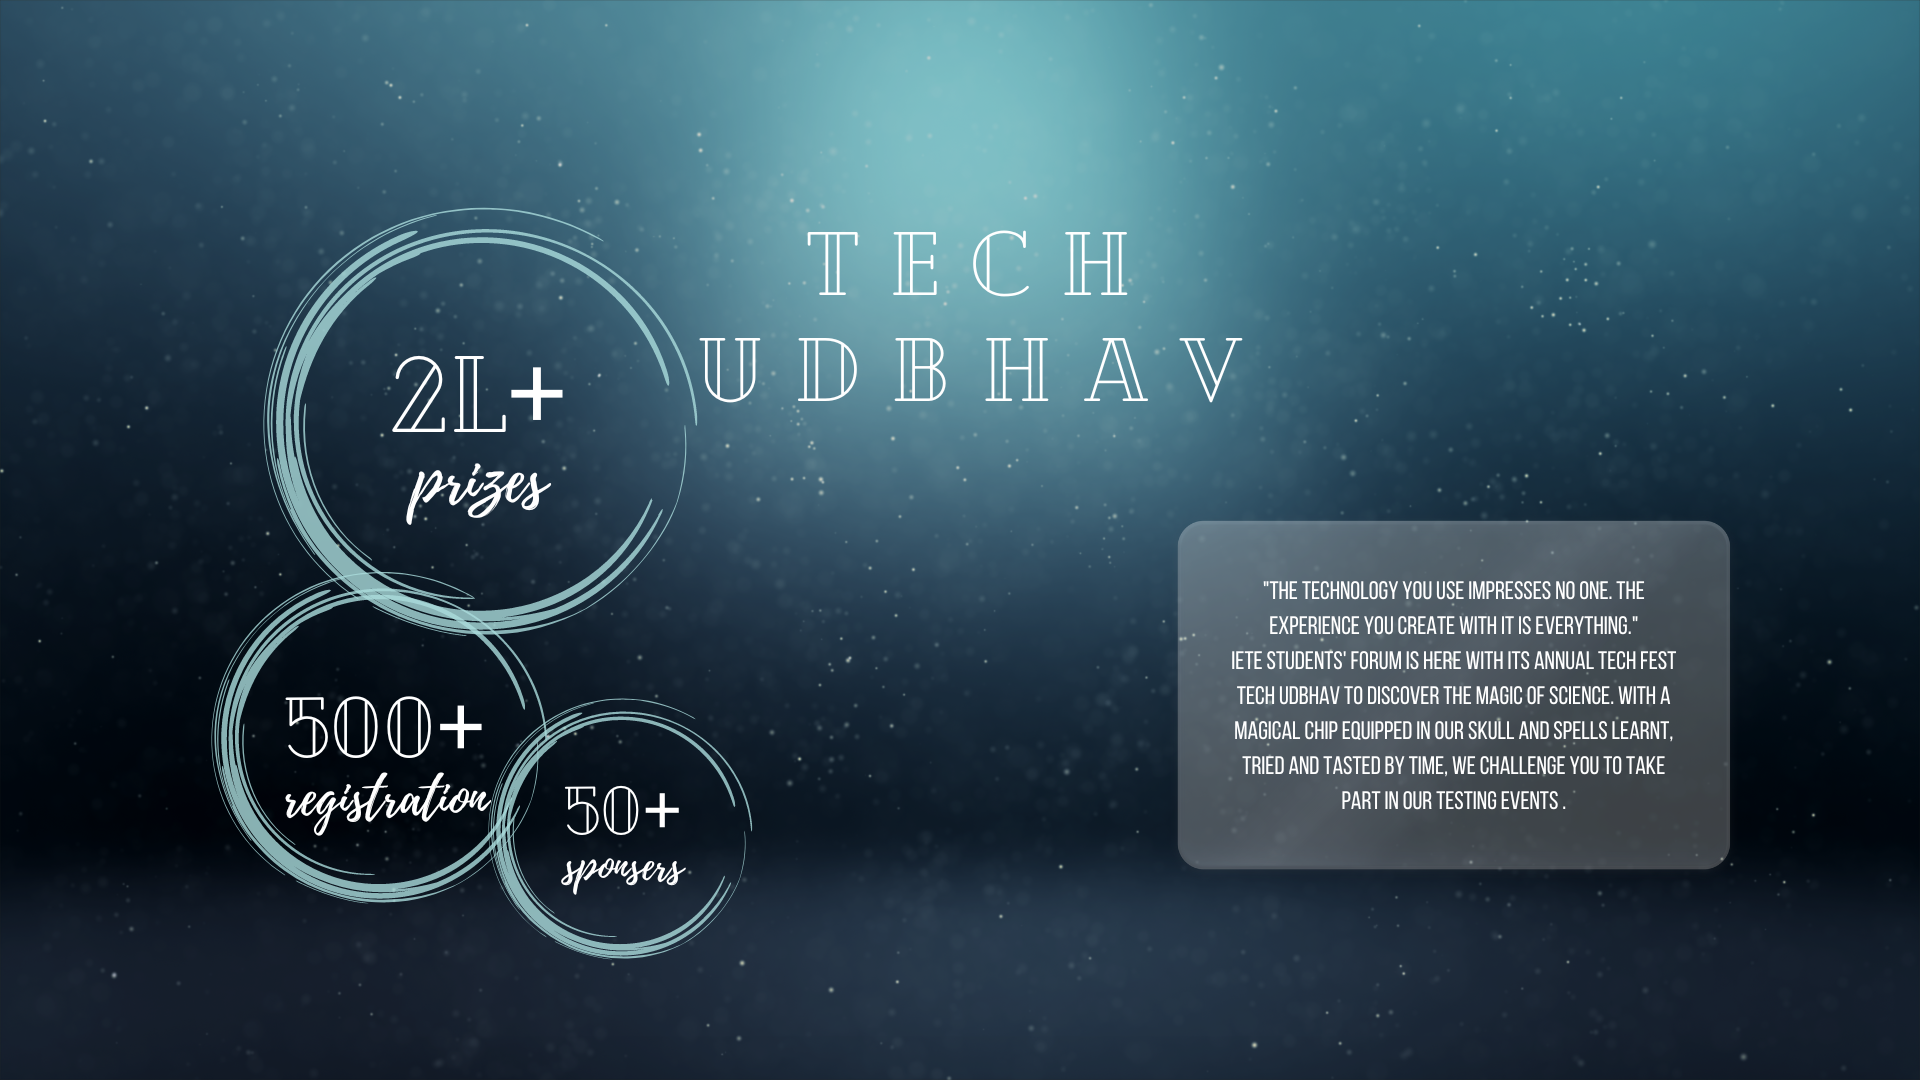
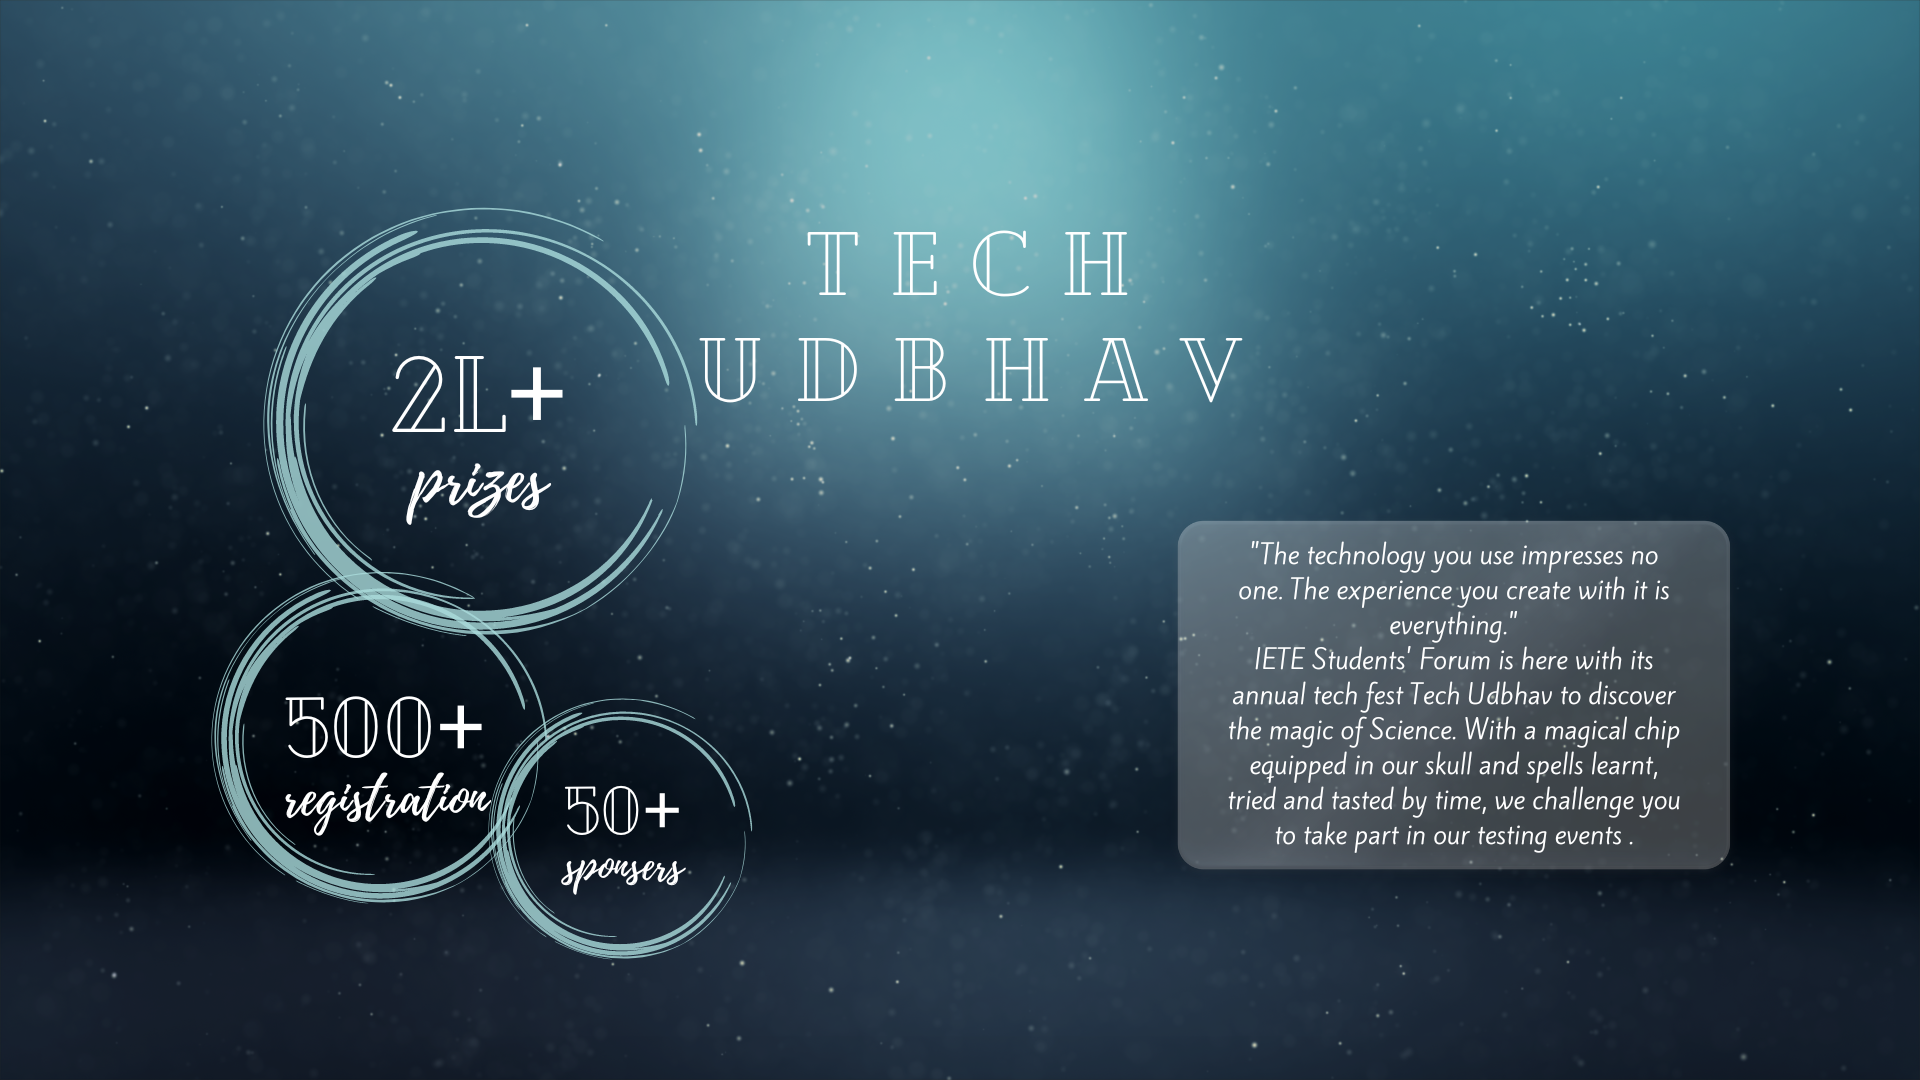
minor changes done

Changed region(s): [[0.625, 0.4889, 0.875, 0.7944]]

diff --git a/index.html b/index.html
@@ -16,7 +16,10 @@
 
     <nav>
         <div class="navLeft"> <img src="./img//tu.png" alt=""> Tech Udbhav</div>
-        <div class="navRight"><a href="https://ietebits.com/" target="_blank">Main Site</a></div>
+        <div class="navRight">
+            <a href="https://ietebits.com/" target="_blank"><img src="./img/finaliete.png"> Main Site</a>
+            <a href="https://ietebits.com/contact.html" target="_blank">Contact Us</a>
+        </div>
         <span></span>
     </nav>
 
@@ -61,7 +64,7 @@
                             We welcome you to the Hogwart of India, BIT Sindri and be a part of Tech Udbhav.
                         </p>
                         <p>
-                            to discover the magic of science, with a magical chip equipped in our skull and spells learnt, tried and tasted by time.
+                            IETE Students' Forum is here with its annual tech fest Tech Udbhav to discover the magic of science, with a magical chip equipped in our skull and spells learnt, tried and tasted by time.
 
                         </p>
                     </div>
@@ -74,7 +77,7 @@
 
         <section>
             <div class="about">
-                <img src="./img/aboutBg.png" alt="">
+                <img src="./img/aboutbg.png" alt="">
             </div>
         </section>
     </div>
@@ -89,7 +92,8 @@
                 </div>
                 <div class="eventButtonsToBeClicked">
                     <div class="primaryBtn"> <a href="http://bit.ly/Technogram" target="_blank">REGISTER</a> </div>
-                    <div class="secondaryBtn">RULE BOOK</div>
+                    <div class="secondaryBtn"> <a href="http://bit.ly/Technogram-rulebook" target="_blank">RULE BOOK</a></div>
+                    <div class="secondaryBtn"> <a href="https://forms.gle/cVPorV8HTEq4d4oa8" target="_blank">SUBMIT LINK</a> </div>
                 </div>
             </div>
             <div class="eventMinorImage commonImage"><img src="/img/tg1.jpg" alt="" srcset=""></div>
@@ -107,7 +111,7 @@
                 </div>
                 <div class="eventButtonsToBeClicked">
                     <div class="primaryBtn"><a href="http://bit.ly/Robo_soccer" target="_blank">REGISTER</a> </div>
-                    <div class="secondaryBtn">RULE BOOK</div>
+                    <div class="secondaryBtn"><a href="http://bit.ly/Robosoccer__rulebook" target="_blank">RULE BOOK</a></div>
                 </div>
             </div>
             <div class="eventMinorImage commonImage"><img src="img/rs1.jpg" alt=""></div>
@@ -126,6 +130,7 @@
                 <div class="eventButtonsToBeClicked">
                     <div class="primaryBtn"> <a href="http://bit.ly/u-xplore" target="_blank">REGISTER</a> </div>
                     <div class="secondaryBtn">RULE BOOK</div>
+                    <div class="secondaryBtn"> <a href="https://forms.gle/4YFraEFqdTYPJPtK8" target="_blank">SUBMIT LINK</a> </div>
                 </div>
             </div>
             <div class="eventMinorImage commonImage"><img src="img/uix1.jpg" alt=""></div>
@@ -288,7 +293,7 @@
                 <a href="https://www.youtube.com/c/IETEBITSindri" target="_blank"><i class="fa-brands fa-youtube"></i> </a>
             </div>
         </div>
-        copyright &copy; IETE 2022-23
+        Copyright &copy; 2022 All Rights Reserved | IETE Students' Forum BIT Sindri
     </footer>
 
 

diff --git a/style.css b/style.css
@@ -54,7 +54,20 @@ nav .navLeft img {
     padding-top: 5px;
     width: 100px;
 }
-
+nav .navRight{
+    display: flex;
+    align-items: center;
+    gap: 2rem;
+}
+nav .navRight a{
+    display: flex;
+    align-items: center;
+}
+nav .navRight img{
+    padding-top: 3.2px;
+    padding-right: 1rem;
+    width: 70px;
+}
 nav span {
     position: absolute;
     bottom: 0;
@@ -312,13 +325,20 @@ nav span {
     margin: 0 .5rem;
     background: linear-gradient(45deg, #0b1121, rgb(16, 171, 255));
     cursor: pointer;
+    transition: .5s;
 }
-
+.eventButtonsToBeClicked .primaryBtn:hover {
+    transform: scale(1.05);
+}
 .eventButtonsToBeClicked .secondaryBtn {
     padding: .5rem 1rem;
     margin: 0 .5rem;
     border: 2px solid rgb(16, 171, 255);
     cursor: pointer;
+    transition: .2s;
+}
+.eventButtonsToBeClicked .secondaryBtn:hover {
+    background: linear-gradient(45deg, #0b1121, rgb(16, 171, 255));
 }
 
 .eventSec {
@@ -516,6 +536,11 @@ footer .footerWrapper {
 footer .footerWrapper i {
     font-size: 1.5rem;
     margin: 1rem;
+    transition: .2s;
+}
+footer .footerWrapper i:hover {
+    transform: scale(1.1);
+    color: rgb(16, 171, 255);
 }
 
 @media (max-width: 750px) {
